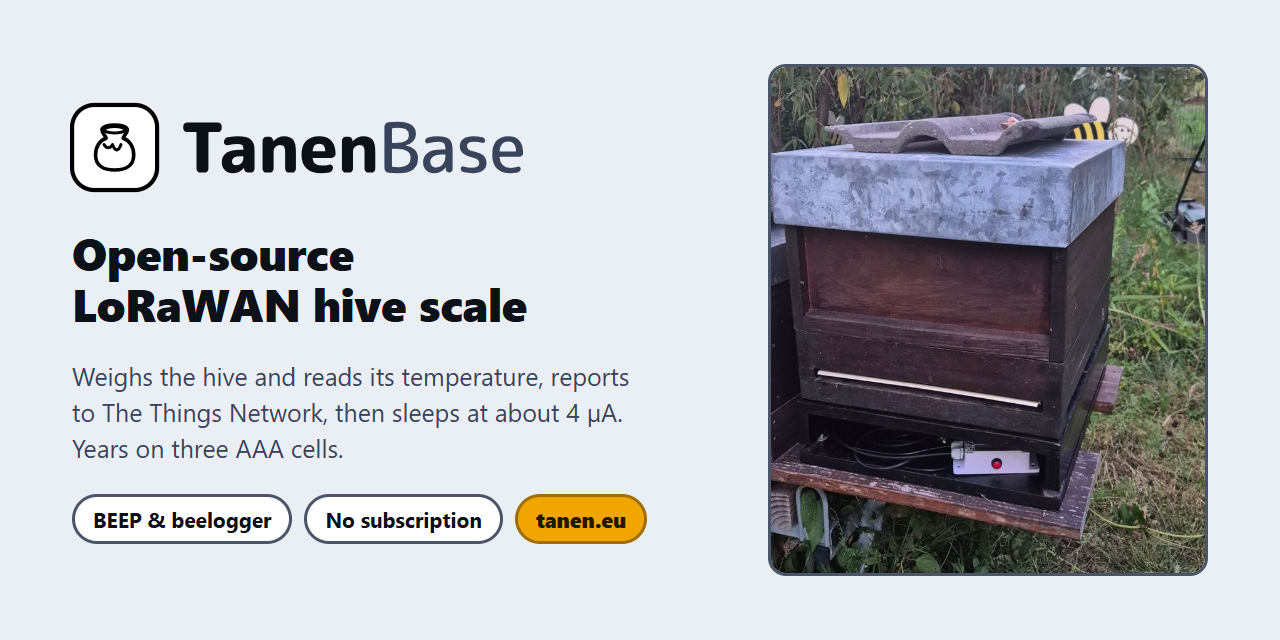
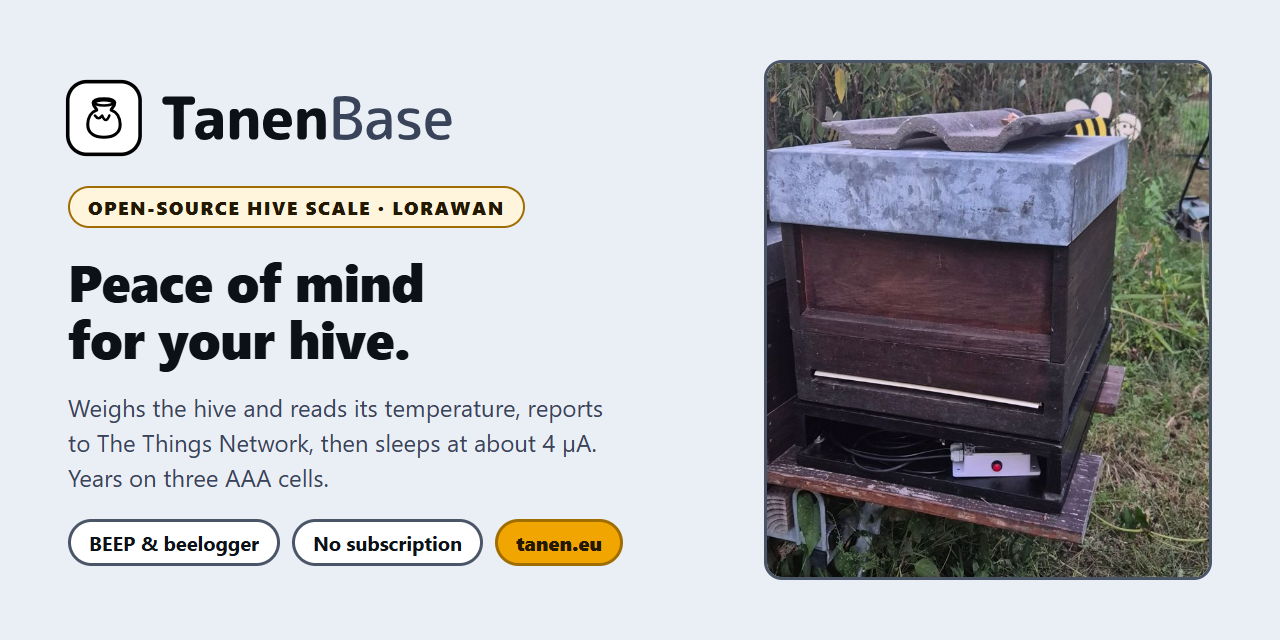
feat(brand): tagline "Ihr Bienenvolk gibt Ihnen Entwarnung."
Hero headline in DE/EN/AR: "Ihr Bienenvolk gibt Ihnen Entwarnung." /
"Peace of mind for your hive." / "خلية النحل تطمئنك عنها." (Hussein's
own line). og:title carries it; new German share card
site/media/share-card.png (1200x630) replaces the Wintersdorf photo as
og:image. media/brand/share-card.html now renders both cards (?lang=de
for tanen.eu, ?lang=en for the GitHub social preview). Page title and
meta description unchanged, they hold the search terms.

Changed region(s): [[0.0312, 0.125, 0.5312, 0.9062], [0.5938, 0.0938, 0.9688, 0.9062]]

diff --git a/media/brand/share-card.html b/media/brand/share-card.html
@@ -1,0 +1,81 @@
+<!doctype html>
+<!--
+  TanenBase share cards, one template for both. Render with headless Chrome
+  (output path must be absolute):
+
+    German, tanen.eu og:image -> site/media/share-card.png
+      chrome --headless=new --hide-scrollbars --window-size=1200,630 ^
+             --screenshot=<abs>\site\media\share-card.png "file:///<abs>/media/brand/share-card.html?lang=de"
+    English, GitHub Settings > Social preview -> media/brand/social-preview.png
+      chrome --headless=new --hide-scrollbars --window-size=1280,640 ^
+             --screenshot=<abs>\media\brand\social-preview.png "file:///<abs>/media/brand/share-card.html?lang=en"
+
+  Colours and type follow the Tanen design system (site/index.html tokens).
+-->
+<html lang="de">
+<head>
+<meta charset="utf-8">
+<title>TanenBase share card</title>
+<style>
+  :root {
+    --bg: #eaeef5; --surface: #ffffff; --border-strong: #4a5568;
+    --text: #0c1017; --dim: #39445a;
+    --accent: #f0a500; --accent-ink: #231800; --accent-edge: #a06d00; --accent-soft: #fff4dc;
+  }
+  * { box-sizing: border-box; margin: 0; }
+  html, body { width: 100vw; height: 100vh; overflow: hidden; }
+  body {
+    background: var(--bg); color: var(--text);
+    font-family: "Segoe UI", system-ui, -apple-system, sans-serif;
+    display: grid; grid-template-columns: 1fr 35vw; gap: 52px;
+    padding: 60px 68px;
+  }
+  .copy { display: flex; flex-direction: column; justify-content: center; align-items: flex-start; gap: 24px; min-width: 0; }
+  .lockup { width: 400px; height: auto; display: block; margin-left: -8px; }
+  .kicker {
+    font-size: 19px; font-weight: 800; letter-spacing: .08em; text-transform: uppercase;
+    color: var(--accent-ink); background: var(--accent-soft); border: 2px solid var(--accent-edge);
+    border-radius: 999px; padding: 6px 18px;
+  }
+  h1 { font-size: 52px; line-height: 1.1; font-weight: 800; letter-spacing: -0.01em; text-wrap: balance; }
+  p { font-size: 24px; line-height: 1.45; color: var(--dim); max-width: 42ch; }
+  .facts { display: flex; flex-wrap: wrap; gap: 12px; }
+  .fact {
+    font-size: 20px; font-weight: 700; padding: 7px 18px;
+    background: var(--surface); border: 3px solid var(--border-strong); border-radius: 999px;
+  }
+  .fact.url { background: var(--accent); border-color: var(--accent-edge); color: var(--accent-ink); font-weight: 800; }
+  .photo { border: 3px solid var(--border-strong); border-radius: 18px; overflow: hidden; background: var(--surface); }
+  .photo img { width: 100%; height: 100%; object-fit: cover; object-position: 50% 58%; display: block; }
+</style>
+</head>
+<body>
+  <div class="copy">
+    <img class="lockup" src="../../site/tanenbase-lockup.svg" alt="TanenBase">
+    <span class="kicker" id="kicker">Offene Stockwaage · LoRaWAN</span>
+    <h1 id="title">Ihr Bienenvolk gibt Ihnen Entwarnung.</h1>
+    <p id="lead">TanenBase wiegt den Stock, misst die Temperatur und funkt die Werte zu Ihnen. Jahrelang mit einer Batterie.</p>
+    <div class="facts">
+      <span class="fact">BEEP &amp; beelogger</span>
+      <span class="fact" id="nosub">Kein Abo</span>
+      <span class="fact url">tanen.eu</span>
+    </div>
+  </div>
+  <div class="photo">
+    <img src="../../site/media/buehl-hive.jpg" alt="">
+  </div>
+<script>
+  // ?lang=en swaps the copy; German is the default.
+  const en = {
+    kicker: 'Open-source hive scale · LoRaWAN',
+    title: 'Peace of mind for your hive.',
+    lead: 'Weighs the hive and reads its temperature, reports to The Things Network, then sleeps at about 4 µA. Years on three AAA cells.',
+    nosub: 'No subscription'
+  };
+  if (new URLSearchParams(location.search).get('lang') === 'en') {
+    document.documentElement.lang = 'en';
+    for (const [id, text] of Object.entries(en)) document.getElementById(id).textContent = text;
+  }
+</script>
+</body>
+</html>

diff --git a/site/index.html b/site/index.html
@@ -32,9 +32,12 @@
 <meta property="og:type" content="website">
 <meta property="og:url" content="https://tanen.eu/">
 <meta property="og:site_name" content="TanenBase">
-<meta property="og:title" content="TanenBase - offene Stockwaage (Open-Source Hive Scale) mit LoRaWAN">
+<meta property="og:title" content="TanenBase: Ihr Bienenvolk gibt Ihnen Entwarnung.">
 <meta property="og:description" content="Gewicht und Temperatur des Bienenstocks, per Funk, jahrelang mit einer Batterie. Offener Quellcode, offene Baudaten, kein Abo. Entwickelt von Hussein Daj.">
-<meta property="og:image" content="https://tanen.eu/media/wintersdorf-sbs-pf-150.jpg">
+<meta property="og:image" content="https://tanen.eu/media/share-card.png">
+<meta property="og:image:width" content="1200">
+<meta property="og:image:height" content="630">
+<meta property="og:image:alt" content="TanenBase, die offene Stockwaage: ein Bienenstock auf der Waage in Bühl">
 <meta property="og:locale" content="de_DE">
 <meta property="og:locale:alternate" content="en_GB">
 <meta property="og:locale:alternate" content="ar">
@@ -607,7 +610,7 @@ footer p{font-size:.98rem;color:var(--dim)}
     <div class="hero-grid">
       <div>
         <span class="kicker" data-i18n="heroKicker">Open-Source-Stockwaage · LoRaWAN</span>
-        <h1 data-i18n="heroTitle">Ihr Bienenstock meldet sich von selbst.</h1>
+        <h1 data-i18n="heroTitle">Ihr Bienenvolk gibt Ihnen Entwarnung.</h1>
         <p class="lead" data-i18n="heroLead">TanenBase wiegt den Stock, misst die Temperatur und schickt die Werte per Funk zu Ihnen.</p>
         <p class="lead lead-2" data-i18n="heroLead2">Ein Batteriesatz reicht für Jahre. Kein Abo, keine Gebühr, kein Hersteller, der das Gerät eines Tages abschaltet.</p>
         <div class="btn-row">
@@ -1149,7 +1152,7 @@ de: {
   navFeat:'Was es kann', navBle:'Sensoren', navData:'Plattformen', navWhy:'Warum', navOpen:'Offen', navTech:'Technik', navContact:'Kontakt',
   navSetup:'Einrichten', setupBtn:'Einrichtungsseite öffnen',
 
-  heroTitle:'Ihr Bienenstock meldet sich von selbst.',
+  heroTitle:'Ihr Bienenvolk gibt Ihnen Entwarnung.',
   heroLead:'TanenBase wiegt den Stock, misst die Temperatur und schickt die Werte per Funk zu Ihnen.',
   heroLead2:'Ein Batteriesatz reicht für Jahre. Kein Abo, keine Gebühr, kein Hersteller, der das Gerät eines Tages abschaltet.',
   heroBtn1:'Was das Gerät kann',
@@ -1324,7 +1327,7 @@ en: {
   navFeat:'What it does', navBle:'Sensors', navData:'Platforms', navWhy:'Why', navOpen:'Open source', navTech:'Specifications', navContact:'Contact',
   navSetup:'Set up', setupBtn:'Open the setup page',
 
-  heroTitle:'Your hive reports for itself.',
+  heroTitle:'Peace of mind for your hive.',
   heroLead:'TanenBase weighs the hive, measures its temperature and sends the readings to you by radio.',
   heroLead2:'One set of batteries lasts for years. No subscription, no fees, no manufacturer who can switch your device off one day.',
   heroBtn1:'What the device does',
@@ -1499,7 +1502,7 @@ ar: {
   navFeat:'ماذا يفعل', navBle:'الحساسات', navData:'المنصات', navWhy:'لماذا', navOpen:'مفتوح المصدر', navTech:'المواصفات', navContact:'اتصل بنا',
   navSetup:'الإعداد', setupBtn:'فتح صفحة الإعداد',
 
-  heroTitle:'خليتك تُبلغك بنفسها.',
+  heroTitle:'خلية النحل تطمئنك عنها.',
   heroLead:'يزن TanenBase خليتك ويقيس حرارتها، ثم يرسل القراءات إليك لاسلكياً.',
   heroLead2:'طقم بطاريات واحد يكفي لسنوات. لا اشتراك، لا رسوم، ولا شركة تستطيع إطفاء جهازك يوماً ما.',
   heroBtn1:'ماذا يفعل الجهاز',

diff --git a/CHANGELOG.md b/CHANGELOG.md
@@ -16,8 +16,13 @@ Detailed per-sprint history lives in [`docs/PLAN.md`](docs/PLAN.md).
   show the wordmark next to the yellow honey-pot tile, in every language
 - **GitHub look** (2026-10-17): README opens with the lock-up (dark variant in
   GitHub's dark theme) instead of "Smart Hive Monitoring";
-  `media/brand/social-preview.png` (1280×640, from `social-preview.html`) is
-  the repo's link-share card
+  `media/brand/social-preview.png` (1280×640) is the repo's link-share card
+- **Tagline** (2026-10-17): "Ihr Bienenvolk gibt Ihnen Entwarnung." /
+  "Peace of mind for your hive." / "خلية النحل تطمئنك عنها." replaces the
+  tanen.eu hero headline in all three languages and the og:title. New
+  share card `site/media/share-card.png` (1200×630, German) as og:image;
+  both cards render from `media/brand/share-card.html`. The page title and
+  meta description keep their search terms
 
 ### Fixed
 - **`logo.svg` comment** claimed `color:#fff` reverses the mark for dark
